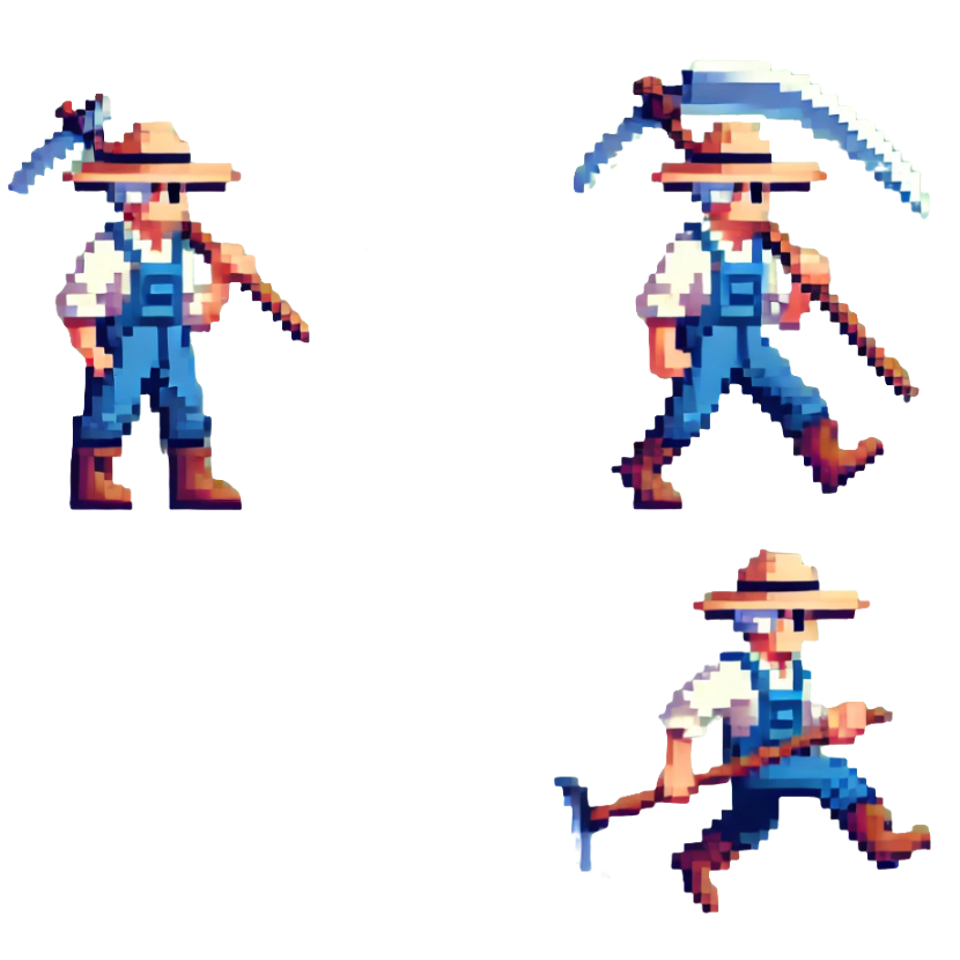
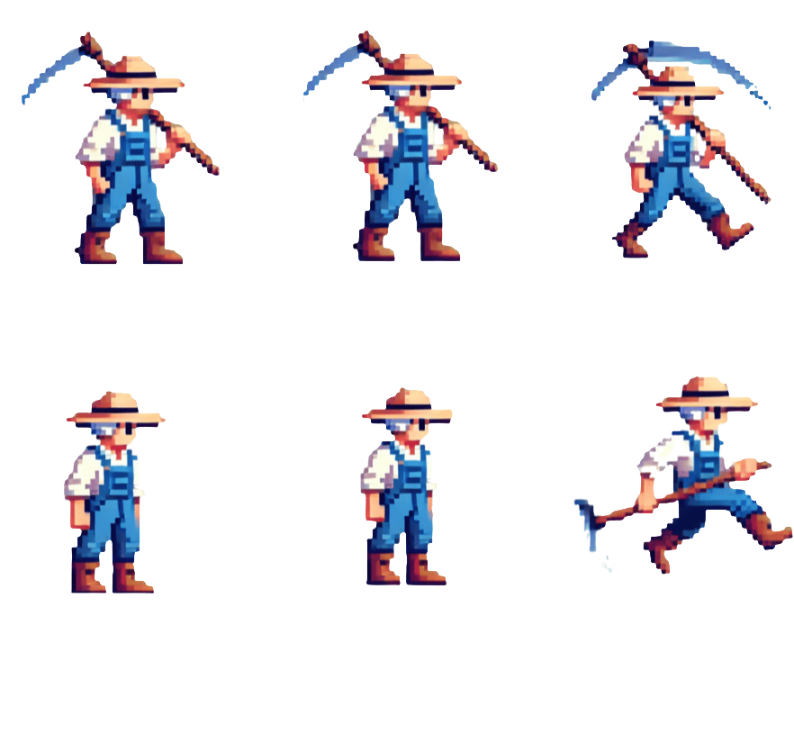
[Franca-007] Ajustando sprits do personagem

Changed region(s): [[0.3929, 0.0306, 1.0, 0.9481], [0.0, 0.0306, 0.3325, 0.7952], [0.4534, 0.5199, 0.5743, 0.7952]]

diff --git a/src/Fase_1.c b/src/Fase_1.c
@@ -12,7 +12,7 @@ void iniciar_fase_1(ALLEGRO_DISPLAY* display) {
     ALLEGRO_TIMER* timer = al_create_timer(1.0 / 30.0);  // Cria um timer para controlar a taxa de atualização do jogo
 
     // Carregar as imagens do personagem e do cenário
-    ALLEGRO_BITMAP* sprite_sheet = al_load_bitmap("assets/images/teste_personagem1.png");
+    ALLEGRO_BITMAP* sprite_sheet = al_load_bitmap("assets/images/Design sem nome(1)(1)(2).png");
     ALLEGRO_BITMAP* bg = al_load_bitmap("assets/images/cenario1.png");
 
     // Verifica se as imagens foram carregadas corretamente, caso contrário, destrói o display e encerra
@@ -32,15 +32,20 @@ void iniciar_fase_1(ALLEGRO_DISPLAY* display) {
     al_start_timer(timer);  // Inicia o timer
 
     // Configuração dos frames do personagem (animação)
-    int frame_width = 320;  // Largura de cada frame do personagem
-    int frame_height = 320;  // Altura de cada frame do personagem
-    int frame_x[] = { 0, 320, 640 };  // Coordenadas dos frames na imagem (sprites)
-    int frame_y = 0;  // Linha do sprite
-    float scale_factor = 0.6;  // Fator de escala do personagem
+    int frame_width = 265;  // Largura de cada frame do personagem
+    int frame_height = 376;  // Altura de cada frame do personagem
+    
+    // Coordenadas X dos frames (3 frames por linha)
+    int frame_x[] = { 0, 265, 530 };
+    
+    // Coordenadas Y para duas linhas
+    int frame_y[] = { 0, 376 };
 
-    // Posição inicial do personagem
+    float scale_factor = 0.6;  // Escala do personagem ajustada
+
+    // Posição inicial do personagem (ajustando para que fique no chão)
     int pos_x = 50;  // Posição X inicial
-    int pos_y = al_get_display_height(display) - frame_height * scale_factor - 50;  // Posição Y inicial, perto do chão
+    int pos_y = al_get_display_height(display) - frame_height * scale_factor;  // Ajuste para que o personagem toque o chão
     int initial_pos_y = pos_y;  // Armazena a posição inicial do personagem para controlar o pulo
 
     // Controle do pulo
@@ -54,13 +59,13 @@ void iniciar_fase_1(ALLEGRO_DISPLAY* display) {
     bool moving = false;  // Indica se o personagem está se movendo
 
     // Velocidade de movimento
-    float movement_speed = 1.5;
+    float movement_speed = 2.0;
 
     // Controle da animação do personagem
     int current_frame = 0;  // Frame atual
     float frame_time = 0.2;  // Tempo de cada frame
     float frame_timer = 0;
-    int total_moving_frames = 3;  // Total de frames da animação
+    int total_moving_frames = 3;  // Total de frames da animação (3 por linha)
 
     bool running = true;  // Indica se o loop do jogo está rodando
 
@@ -122,14 +127,14 @@ void iniciar_fase_1(ALLEGRO_DISPLAY* display) {
         }
 
         // Desenho dos frames do personagem
-        int frame_cx = frame_x[current_frame];  // Frame atual
-        int frame_cy = frame_y;  // Linha dos frames (fixo)
+        int frame_cx = frame_x[current_frame];  // Frame atual (X)
+        int frame_cy = frame_y[0];  // Usando apenas a primeira linha de sprites por enquanto
 
         // Limpa a tela e desenha o cenário e o personagem
         al_clear_to_color(al_map_rgb(255, 255, 255));  // Limpa a tela com a cor branca
         al_draw_scaled_bitmap(bg, 0, 0, al_get_bitmap_width(bg), al_get_bitmap_height(bg), 0, 0, al_get_display_width(display), al_get_display_height(display), 0);
 
-        // Desenha o personagem na direção correta
+        // Desenha o personagem na direção correta com ajuste de escala
         if (facing_right) {
             al_draw_scaled_bitmap(sprite_sheet, frame_cx, frame_cy, frame_width, frame_height, pos_x, pos_y, frame_width * scale_factor, frame_height * scale_factor, 0);
         } else {
@@ -145,11 +150,3 @@ void iniciar_fase_1(ALLEGRO_DISPLAY* display) {
     al_destroy_timer(timer);
     al_destroy_event_queue(event_queue);
 }
-
-/*
-Resumo:
-O arquivo `fase1.c` define a função `iniciar_fase_1`, que configura e roda a lógica da primeira fase do jogo.
-Ele lida com a criação do display, carregamento de imagens, controles do teclado, e animação do personagem.
-O loop principal do jogo controla o movimento, o pulo e a animação do personagem, além de desenhar o cenário e o personagem na tela.
-Quando o jogador fecha a janela ou sai do jogo, os recursos alocados são liberados.
-*/

diff --git a/src/Tela_inicio.c b/src/Tela_inicio.c
@@ -7,6 +7,49 @@
 // Declaração da função iniciar_fase_1 (a implementação está em Fase_1.c)
 void iniciar_fase_1(ALLEGRO_DISPLAY* display);
 
+// Função que inicializa a tela de resumo sobre a Revolução Francesa
+void iniciar_resumo(ALLEGRO_DISPLAY* display) {
+    bool running = true;
+    ALLEGRO_EVENT_QUEUE* event_queue = al_create_event_queue();
+    ALLEGRO_TIMER* timer = al_create_timer(1.0 / 60.0);  // Temporizador para 60 FPS
+
+    // Registrar as fontes de eventos
+    al_register_event_source(event_queue, al_get_display_event_source(display));
+    al_register_event_source(event_queue, al_get_timer_event_source(timer));
+    al_start_timer(timer);
+
+    while (running) {
+        ALLEGRO_EVENT event;
+        al_wait_for_event(event_queue, &event);
+
+        // Fecha a janela se o usuário clicar no botão de fechar
+        if (event.type == ALLEGRO_EVENT_DISPLAY_CLOSE) {
+            running = false;
+        }
+
+        // Verifique se o usuário clicou para sair do resumo (por exemplo, com clique no mouse)
+        if (event.type == ALLEGRO_EVENT_MOUSE_BUTTON_DOWN) {
+            running = false;
+        }
+
+        // Limpa a tela e desenha o texto de resumo
+        al_clear_to_color(al_map_rgb(0, 0, 0));  // Preenche o fundo com cor preta
+
+        // Exemplo de texto sobre a Revolução Francesa
+        al_draw_text(al_create_builtin_font(), al_map_rgb(255, 255, 255), al_get_display_width(display) / 2,
+                     al_get_display_height(display) / 2, ALLEGRO_ALIGN_CENTER,
+                     "A Revolução Francesa foi um movimento social e politico que ocorreu na França entre 1789 e 1799.\n"
+                     "Ela foi marcada pela derrubada da monarquia e a instauração de uma república.\n"
+                     "Foi um evento de grande impacto histórico, inspirando mudanças em todo o mundo.");
+
+        al_flip_display();  // Atualiza a tela com o conteúdo do resumo
+    }
+
+    // Libera recursos
+    al_destroy_timer(timer);
+    al_destroy_event_queue(event_queue);
+}
+
 // Função que inicializa a tela de menu do jogo
 void iniciar_tela_menu(ALLEGRO_DISPLAY* display, ALLEGRO_BITMAP* background) {
     GameState game_state = MENU;  // Define o estado inicial do jogo como MENU
@@ -57,7 +100,7 @@ void iniciar_tela_menu(ALLEGRO_DISPLAY* display, ALLEGRO_BITMAP* background) {
                 // Verifica se o botão "Resumo" foi clicado
                 if (mouse_x >= 120 && mouse_x <= 380 && mouse_y >= 561 && mouse_y <= 695) {
                     printf("Resumo foi clicado!\n");
-                    game_state = RESUMO;  // Muda o estado do jogo para RESUMO (não implementado)
+                    game_state = RESUMO;  // Muda o estado do jogo para RESUMO
                 }
             }
 
@@ -71,16 +114,14 @@ void iniciar_tela_menu(ALLEGRO_DISPLAY* display, ALLEGRO_BITMAP* background) {
             iniciar_fase_1(display);  // Chama a função que inicia a Fase 1
             game_state = MENU;  // Após a Fase 1, volta para o MENU
         }
+        // Se o estado do jogo for RESUMO
+        else if (game_state == RESUMO) {
+            iniciar_resumo(display);  // Chama a função que exibe o resumo
+            game_state = MENU;  // Volta para o MENU após o resumo
+        }
     }
 
     // Libera os recursos alocados após o término do loop
     al_destroy_timer(timer);
     al_destroy_event_queue(event_queue);
 }
-
-/*
-Resumo:
-Este código define a função `iniciar_tela_menu`, que exibe a tela de menu do jogo. Ele detecta cliques
-no mouse para iniciar o jogo, mostrar o resumo ou sair. O estado do jogo muda para `FASE_1` quando o
-jogador clica em "Iniciar Jogo". O loop principal do jogo escuta eventos e atualiza a tela conforme o estado atual.
-*/
